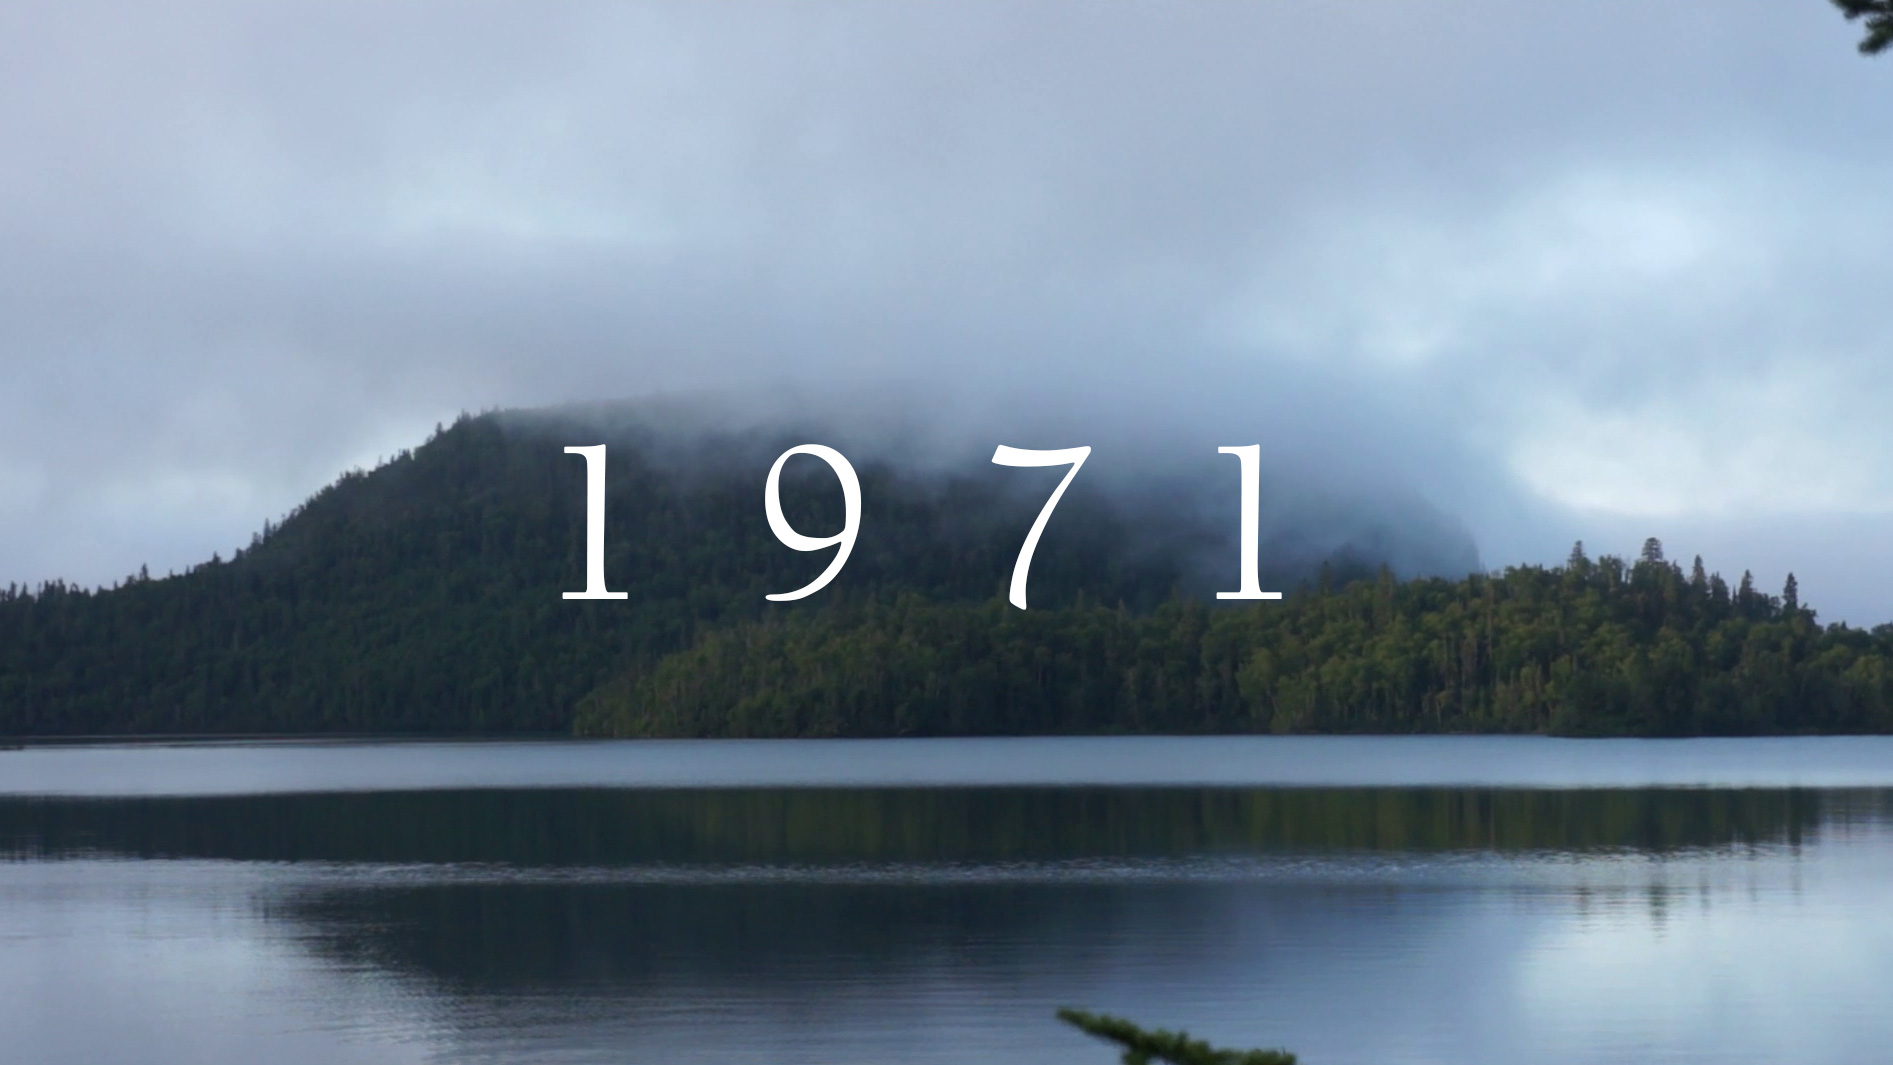
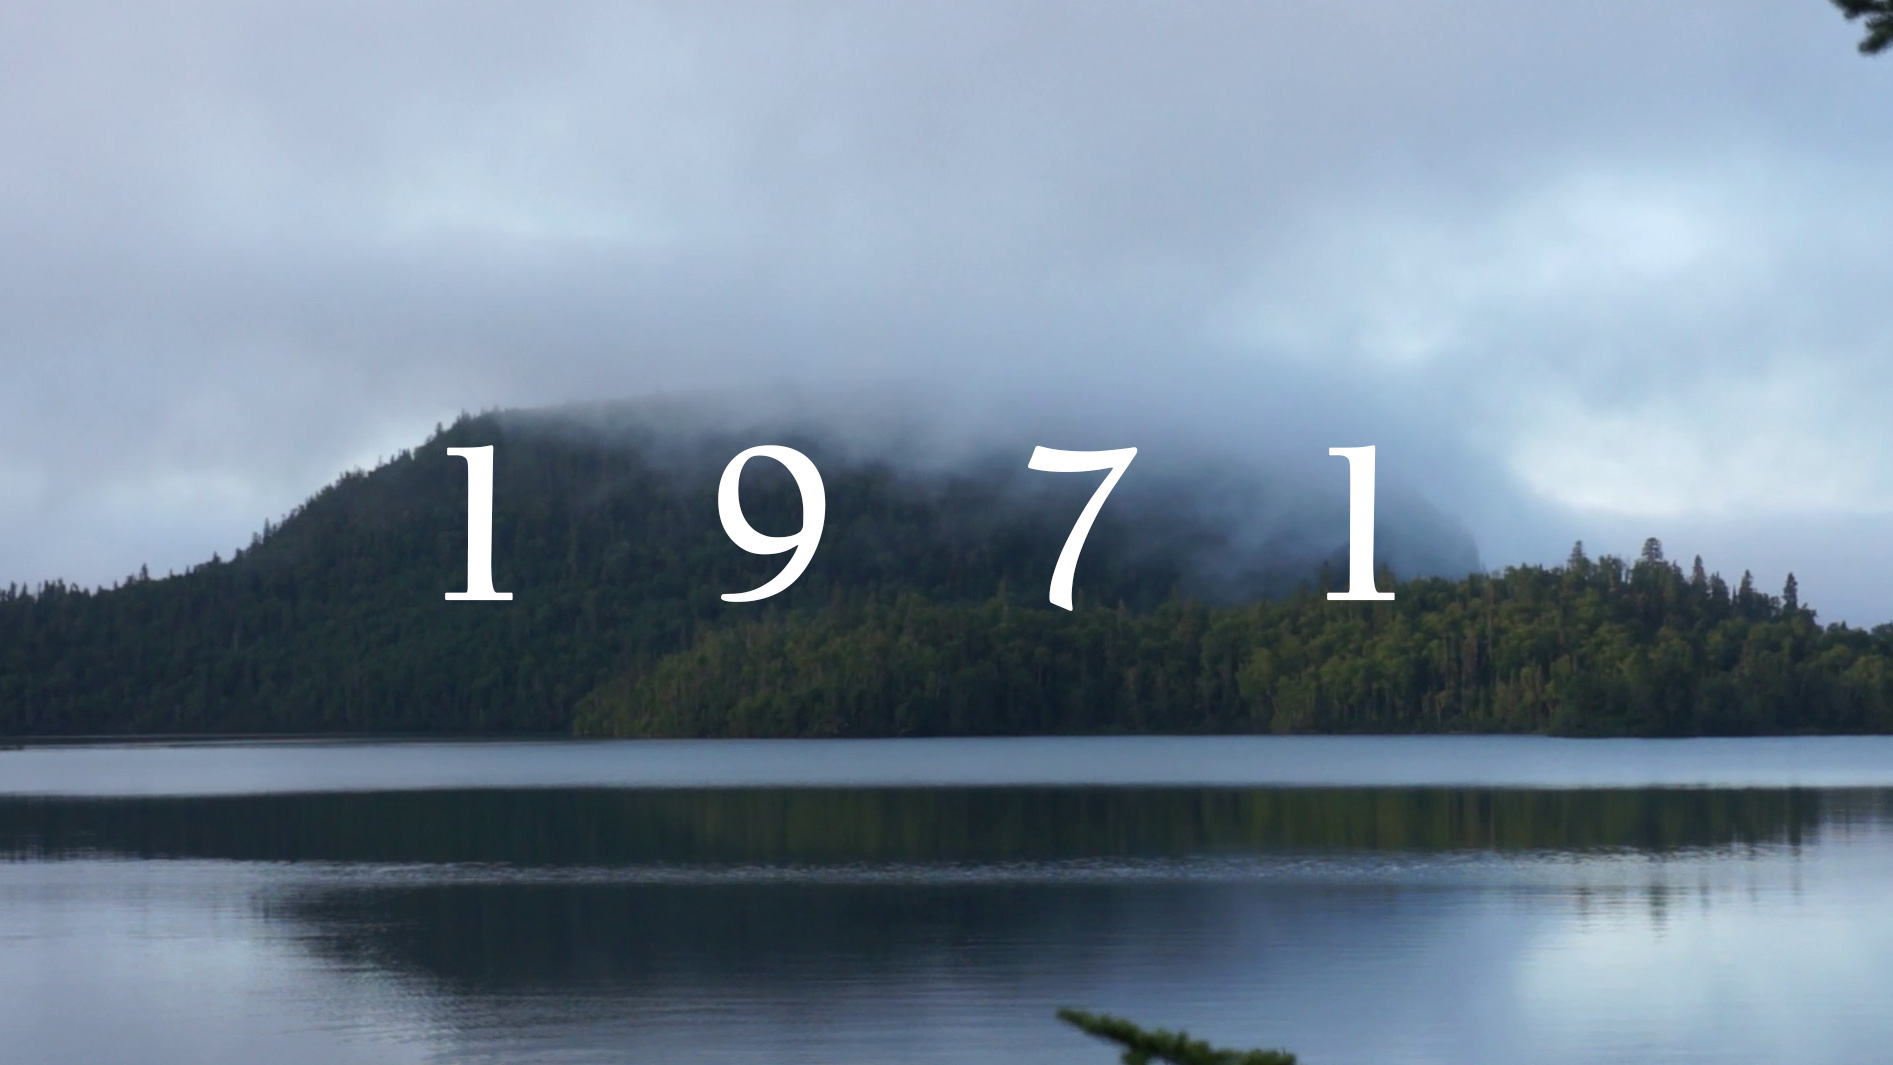
stuff

diff --git a/css/stylesheet.css b/css/stylesheet.css
@@ -151,16 +151,16 @@ blockquote {
 }
 
 .main h1 {
-	font-family: 'manitoban_fbregular', sans-serif;
-	margin: 0 -10vw 0 0;
+	margin: 0 -15vw 0 0;
 	text-align: center;
 	color: #3E4144;
 	font-size: 10vw;
-	letter-spacing: 10vw;
+	letter-spacing: 15vw;
 }
 
 @media only screen and (orientation: portrait) {
 	.main h1 {
+		margin: 0 -10vh 0 0;
 		font-size: 10vh;
 	}
 }
@@ -234,6 +234,7 @@ blockquote {
 	color: #3E4144;
 	font-size: 2vw;
 	padding: 1vw 0;
+	text-transform: lowercase;
 }
 
 @media only screen and (orientation: portrait) {
@@ -248,10 +249,13 @@ blockquote {
 
 .release {
 	display: flex;
+	flex-wrap: wrap;
+	margin-bottom:5vh;
 }
 
 .release-cover {
 	width: 25%;
+	min-width:300px;
 }
 
 .release-cover img {

diff --git a/js/script.js b/js/script.js
@@ -19,7 +19,7 @@ $(window).on('resize load', function (ev) {
 
 $(window).on('scroll load', function (ev) {
 	var position = window.scrollY / document.documentElement.clientHeight;
-	$main.css('opacity', Math.max(1 - position, 0.5));
+	$main.css('opacity', Math.max(1 - position, 0.25));
 	$return.css('opacity', Math.min(position, 1));
 }).trigger('scroll');
 
